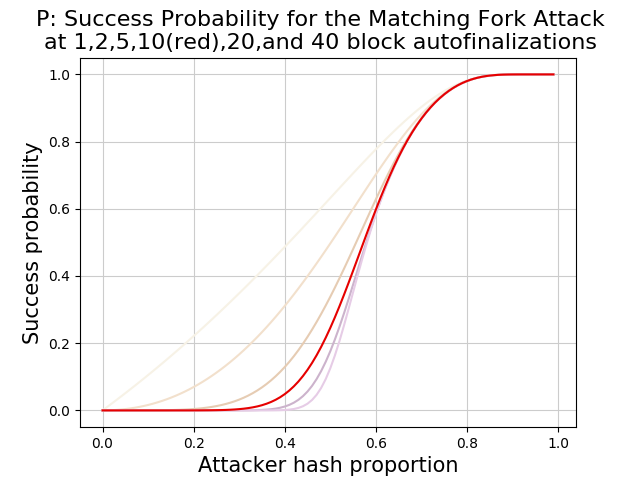
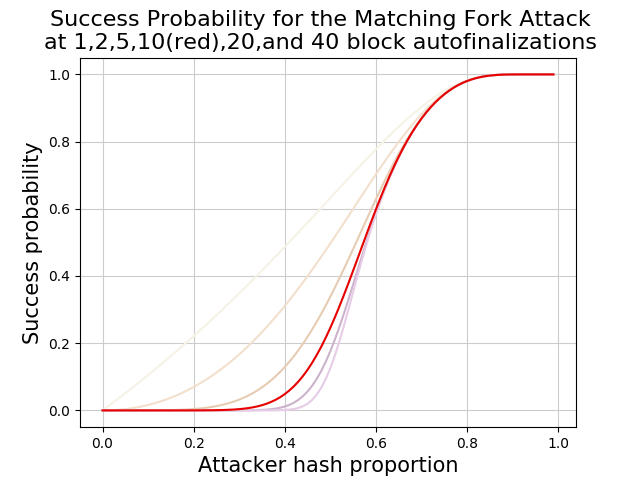
wiki commit

Changed region(s): [[0.0625, 0.0, 0.9375, 0.0625]]

diff --git a/autofinalization_parking.md b/autofinalization_parking.md
@@ -169,7 +169,8 @@ $$
 
 This can be calculated and plotted for a variety of auto-finalization depths and attacker hash, resulting in the following graph (see Appendix 1 for jupyter code):
 
-<img src="/finalizationMatchingAttack.png" width=600></img>
+<img src="/finalizationMatchingAttack.png" width=800></img>
+*figure 1*
 
 Visually, this system is fairly robust against minority hash attackers at BCH's 10 auto-finalization depth.  Quantitatively, the likelihood of a successful attack by a 50% miner is only 25%.  However, the situation changes rapidly above about 60% hash, with an attacker with 2/3rds of the hash power resulting in a 82% chance of success and a 3/4ths miner having an 94% likelihood of forcing a persistent fork.
 
@@ -215,7 +216,8 @@ Similarly to the way attack mistiming becomes more lenient due to chain parking,
 
 A significant problem is that the F chain must to stay even with or be ahead of the M chain every time a M block is found.  This is a significantly more strict requirement than, for example, that the F chain eventually be even with the M chain (as is needed for the classic double spend attack).  Parking relaxes this requirement to some degree.  By block 3, the F chain can fall 1 block behind.  And by block M > 3 the F chain can fall M blocks behind without triggering a chain switch.  The probability analysis was rerun with the BCH parking rules, yielding the following graph
 
-<img src="/finalizationParkingMatchingAttack.png" width=600></img>
+<img src="/finalizationParkingMatchingAttack.png" width=800></img>
+*figure 2*
 
 Parking allows significantly less applied hash power to result in greater attack success probability, especially at lower hash levels. To repeat the data points presented earlier, 50% hash now has a 48% success rate (double), 66% an 83% success rate and 75% has a 94% success rate (about the same).  
 
@@ -233,7 +235,8 @@ Red is a 10 block Fork Matching attack against a chain with finalization and par
 
 Orange is a 10 block Fork Matching attack against a chain with finalization only.  As expected, it is harder for minority hash attackers than the red.
 
-<img src="/AAFP_AttackComparison.png" width=600></img>
+<img src="/AAFP_AttackComparison.png" width=800></img>
+*figure 3*
 
 
 ## Conclusion
@@ -254,19 +257,56 @@ Instead of intentional chain reorganization, attackers can create intentional ch
 
 ## Appendix 1
 
-### Probability Calculation for Fork Matching Attack Against Auto-finalization
-
+### Probability Calculations for the Figures
 ```python
+#!/usr/bin/python3
+# Blockchain reorganization probability calculator
+# Copyright 2020 G. Andrew Stone
+# MIT Licensed (https://opensource.org/licenses/MIT)
+
+# This file calculates and plots:
+# 1. Satoshi (tie) double spend attack (chain reorganization) probabilities
+# 2. Winning (1 extra block) double spend attack probabilities
+# 3. Limited depth double spend attack probabilities
+# 4. Chain matching attack probabilities verses finalization and/or parking blockchains
+
 import math
+
+def dspart(z,q,k):
+    p = 1.0 - q
+    lam = (z+1)*q/p
+    a = (lam**k)/(math.factorial(k)*(math.e**lam))
+    b = 1.0 - ((q/p)**(z+1-k))
+    return a*b
+
+def doublespendAttack(z,q):
+    if (q>0.5):
+        return 1.0
+    sm = 0.0
+    for k in range(0,z+2): # +2 because range is not end inclusive, and it must be +1 because the attacker chain must exceed the honest
+        t = dspart(z,q,k)
+        sm += t
+    return 1.0 - sm
+
+def doublespendAttackTie(z,q):
+    if (q>0.5):
+        return 1.0
+    sm = 0.0
+    for k in range(0,z+1): # +1 because range is not end inclusive
+        t = dspart(z,q,k)
+        sm += t
+    return 1.0 - sm
 
 def poisson(success, lam):
     return (  (lam**success)/(math.factorial(success)*(math.e**lam)) )
 
+# The likelihood of poisson from success to infinity
 def poissonNabove(success, lam):
     acc = 0.0
-    for i in range(0,success):
+    for i in range(0,success):  # goes from 0 to success-1 inclusive
         acc += poisson(i,lam)
     return 1-acc
+
 
 calced2={}
 def FinParkFork(attackerHash, Mlen, Flen, finalizationDepth, park):
@@ -284,7 +324,6 @@ def FinParkFork(attackerHash, Mlen, Flen, finalizationDepth, park):
     # for other fork depths, attacker cannot fall behind more than double
         elif (Flen*2 < Mlen):
             return 0.0
-
     elif (Flen < Mlen):  # without parking, fork cannot ever fall behind
         return 0.0
 
@@ -305,12 +344,44 @@ def FinParkFork(attackerHash, Mlen, Flen, finalizationDepth, park):
     calced2[(float(attackerHash),Mlen,Flen,finalizationDepth,park)] = acc
     return acc
 
+calced3={}
+def limitedDoubleSpendAttack(attackerHash, embargo, maxDepth, Mlen, Flen, park):
+    if park is True: # we are assuming the embargo is > 3 so the early parking rules do not matter
+        if Flen > Mlen*2 and Flen > embargo:
+            return 1.0
+        calcDepth = maxDepth*2
+    else:
+        if Flen > Mlen and Flen > embargo:
+            return 1.0
+        calcDepth = maxDepth
+
+    if (Mlen >= maxDepth): # Too late!
+        return 0.0
+
+    # Look in the cache for values we've already found
+    if (float(attackerHash),embargo,Mlen,Flen,maxDepth,park) in calced3:
+        return calced3[(float(attackerHash),embargo,Mlen,Flen,maxDepth,park)]
+
+    honestHash = 1-attackerHash
+    interval = attackerHash/honestHash
+
+    acc = 0.0
+    for i in range(0,calcDepth-Flen):
+        # Model the F chain finding i blocks while the M chain finds 1
+        acc += poisson(i,interval)*limitedDoubleSpendAttack(attackerHash, embargo, maxDepth, Mlen+1, Flen+i, park)
+    # Model the F chain finding more than what it needs to win in this one interval
+    acc += poissonNabove(calcDepth-Flen, interval)
+
+    calced3[(float(attackerHash),embargo,Mlen,Flen,maxDepth,park)] = acc
+    return acc
+
+
 import numpy as np
 import matplotlib.pyplot as pyplot
 
-def plotitP():
+def plotFig1():
     x = np.linspace(start=0.0, stop=0.99, num=100)
-    fig = pyplot.figure(2)
+    fig = pyplot.figure(1)
     plt = fig.add_subplot()
     plt.grid(color=(0.8,0.8,0.8))
     plt.set_xlabel('Attacker hash proportion', fontsize=15)
@@ -325,6 +396,7 @@ def plotitP():
     y1 = [ FinParkFork(i,0,0,5,False) for i in x]
     plt.plot(x, y1, color=(.9,.8,.7))
 
+
     y3 = [ FinParkFork(i,0,0,20,False) for i in x]
     plt.plot(x, y3, color=(.8,.7,.8))
     y4 = [ FinParkFork(i,0,0,40,False) for i in x]
@@ -333,13 +405,12 @@ def plotitP():
     y = [ FinParkFork(i,0,0,10,False) for i in x]
     plt.plot(x, y, color=(.9,0,0))
 
-    fig.suptitle("P: Success Probability for the Matching Fork Attack\nat 1,2,5,10(red),20,and 40 block autofinalizations", fontsize=16)
+    fig.suptitle("Success Probability for the Matching Fork Attack\nat 1,2,5,10(red),20,and 40 block autofinalizations", fontsize=16)
     fig.show()
-    
 
-def plotitParked():
+def plotFig2():
     x = np.linspace(start=0.0, stop=0.99, num=100)
-    fig = pyplot.figure(3)
+    fig = pyplot.figure(2)
     plt = fig.add_subplot()
     plt.grid(color=(0.8,0.8,0.8))
     plt.set_xlabel('Attacker hash proportion', fontsize=15)
@@ -364,16 +435,55 @@ def plotitParked():
 
     fig.suptitle("Success Probability for the Matching Fork Attack\nat 1,2,5,10(red),20,and 40 block parked autofinalizations", fontsize=16)
     fig.show()
-    
-def main():
+
+def plotFig3_differentAttacks():
+    x = np.linspace(start=0.0, stop=0.99, num=100)
+    fig = pyplot.figure(3)
+    plt = fig.add_subplot()
+    plt.grid(color=(0.8,0.8,0.8))
+    plt.set_xlabel('Attacker hash proportion', fontsize=15)
+    plt.set_ylabel('Success probability', fontsize=15)
+
+    # Green: standard doublespend attack, with a 10 block embargo period
+    z = [ doublespendAttack(10,i) for i in x]
+    plt.plot(x, z, color=(0,.9,0))
+
+    # Blue: 10 block doublespend attack with 10 block embargo period
+    embargo = 10
+    ldsa = [ limitedDoubleSpendAttack(i, embargo, 10, 0, 0, False) for i in x]
+    plt.plot(x, ldsa, color=(0,0,.9))
+
+    # Yellow: 10 block DS with 10 block embargo & parking
+    ldsa = [ limitedDoubleSpendAttack(i, embargo, 10, 0, 0, True) for i in x]
+    plt.plot(x, ldsa, color=(0.9,0.9,0))
+
+    # Red: 10 block Fork Matching attack against finalization & parking
+    y = [ FinParkFork(i,0,0,10,True) for i in x]
+    plt.plot(x, y, color=(.9,0,0))
+
+    # Orange: 10 block Fork Matching attack against finalization only
+    yy = [ FinParkFork(i,0,0,10, False) for i in x]
+    plt.plot(x, yy, color=(.9,.5,.2))
+
+    fig.suptitle("Attack Comparison", fontsize=16)
+    fig.show()
+
+def Test():
     print("F  50% at 10: ", FinParkFork(0.5,0,0,10,False))
     print("F  66% at 10: ", FinParkFork(2.0/3.0,0,0,10,False))
     print("F  75% at 10: ", FinParkFork(0.75,0,0,10,False))
     print("PF 50% at 10: ", FinParkFork(0.5,0,0,10,True))
     print("PF 66% at 10: ", FinParkFork(2.0/3.0,0,0,10,True))
     print("PF 75% at 10: ", FinParkFork(0.75,0,0,10,True))
-    plotit()
-    plotitParked()
+
+    plotFig1()
+    plotFig2()
+    plotFig3_differentAttacks()
+
+if __name__ == "__main__":
+    Test()
+    import code
+    code.interact()
 ```
 
 
